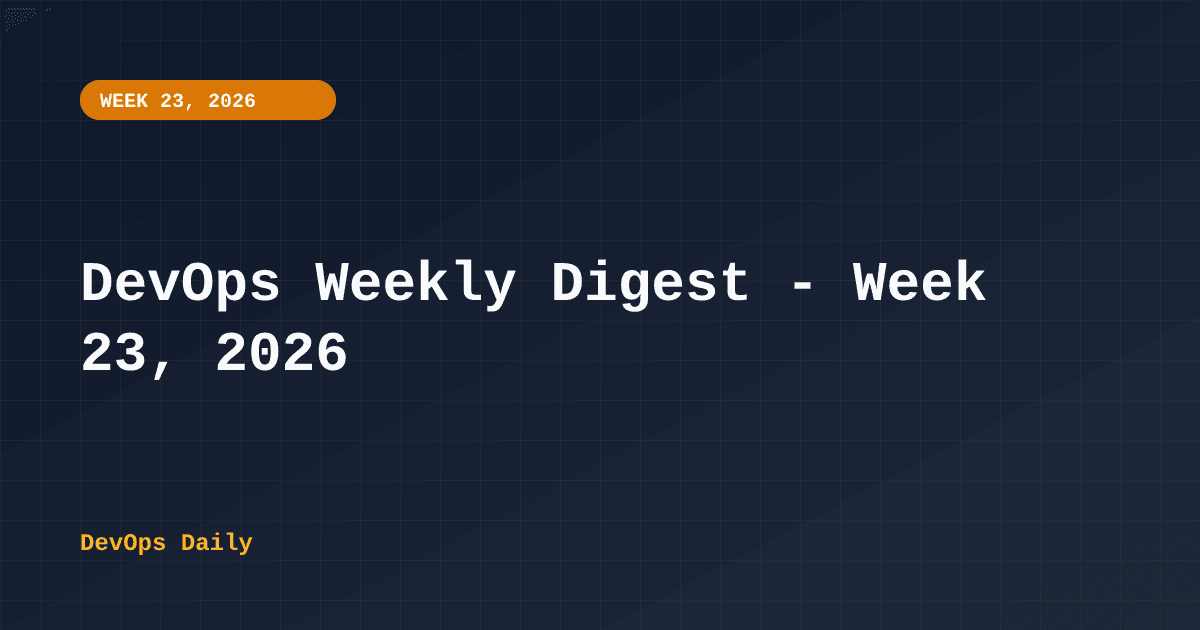
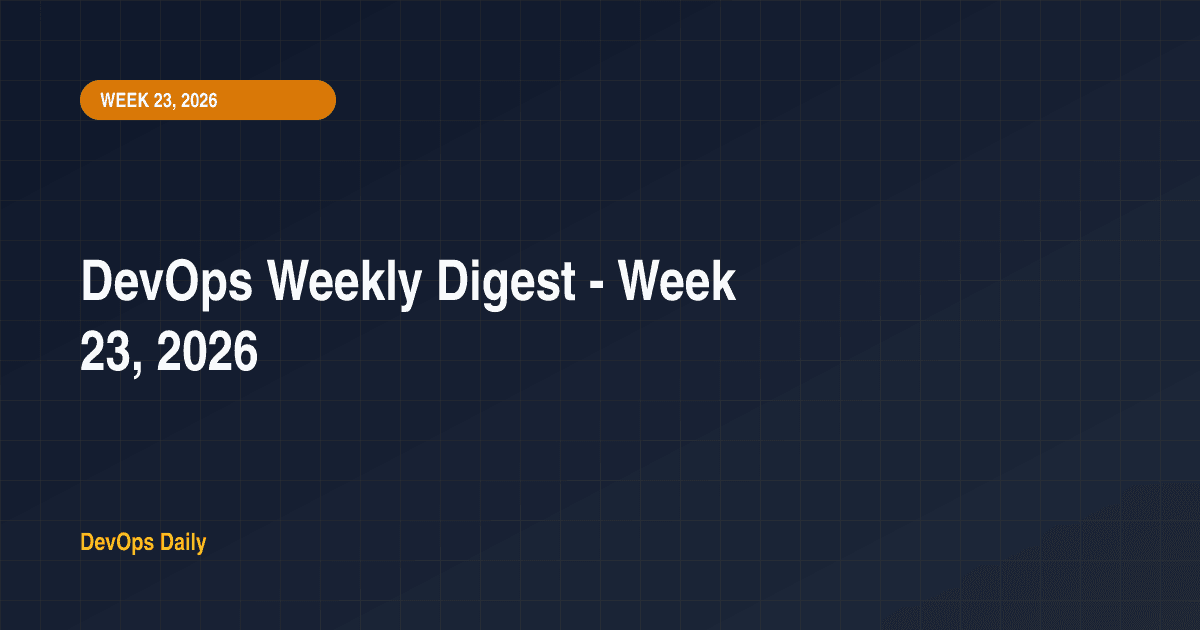
feat: add blog post - Designing Rate Limiting for APIs: Algorithms, Patterns, and Implementation (#1348)

Pull request: feat: add blog post - Designing Rate Limiting for APIs: Algorithms, Patterns, and Implementation
Blog Post on **Designing Rate Limiting for APIs: Algorithms, Patterns, and Implementation**.
Category: API Design
Tags: api-design, rate-limiting, backend

diff --git a/content/posts/designing-rate-limiting-for-apis.md b/content/posts/designing-rate-limiting-for-apis.md
@@ -1,0 +1,353 @@
+---
+title: 'Designing Rate Limiting for APIs: Algorithms, Patterns, and Implementation'
+excerpt: 'A practical comparison of token bucket, leaky bucket, fixed window, and sliding window rate limiting, with copy-paste Redis and FastAPI code, nginx config, and guidance on which one to actually use.'
+category:
+  name: 'DevOps'
+  slug: 'devops'
+date: '2026-06-08'
+publishedAt: '2026-06-08T09:00:00Z'
+updatedAt: '2026-06-08T09:00:00Z'
+readingTime: '12 min read'
+author:
+  name: 'DevOps Daily Team'
+  slug: 'devops-daily-team'
+featured: false
+tags:
+  - api-design
+  - rate-limiting
+  - backend
+  - redis
+  - nginx
+  - devops
+---
+
+At 2am a single customer's cron job got stuck in a retry loop with no backoff. One API key started sending around 8,000 requests per second. Within ninety seconds the database connection pool was saturated, every other customer was getting timeouts, and the on-call engineer was staring at a dashboard that was all red. There was no rate limiting on that endpoint. One misbehaving client took down the API for everyone.
+
+If you run any public or shared API, this is not a hypothetical. The fix is rate limiting, and the hard part is not the idea, it is picking the right algorithm and implementing it so it actually holds up behind a load balancer.
+
+This post compares the four rate limiting algorithms you will actually see in production (fixed window, sliding window, token bucket, leaky bucket), shows you working code you can copy, and gives you a straight answer on which one to use.
+
+## TLDR
+
+- **Token bucket** is the right default for most public APIs. It allows controlled bursts and is cheap to run in Redis.
+- **Sliding window counter** is the best choice when you want accurate limits without the boundary-burst problem of fixed windows.
+- **Fixed window** is the simplest and cheapest, but it lets a client send up to 2x your limit across a window boundary. Fine for rough internal limits, bad for billing or abuse control.
+- **Leaky bucket** smooths bursty input into a constant output rate. Use it when a downstream system can only handle a fixed throughput, not when you want to allow bursts.
+- Do the counting in a shared store (Redis) with an atomic operation. In-memory counters break the moment you run more than one instance.
+- Return `429 Too Many Requests` with a `Retry-After` header. Decide up front whether you fail open or fail closed when Redis is down.
+
+## Prerequisites
+
+- A running API service (the examples use Python and FastAPI, but the logic ports to any language)
+- Redis 6 or newer reachable from your service, for distributed counting
+- Basic familiarity with HTTP status codes and headers
+- `redis-py` installed (`pip install redis`) if you want to run the Python examples
+
+## Why in-memory counters fail first
+
+Before the algorithms, the trap everyone hits. The naive version looks like this:
+
+```python
+# DO NOT use this in production
+from collections import defaultdict
+import time
+
+counters = defaultdict(list)
+
+def allow(client_id, limit=100, window=60):
+    now = time.time()
+    counters[client_id] = [t for t in counters[client_id] if t > now - window]
+    if len(counters[client_id]) >= limit:
+        return False
+    counters[client_id].append(now)
+    return True
+```
+
+This works on your laptop and fails in production for one reason: the counter lives in the memory of a single process. Run three replicas behind a load balancer and each one tracks its own count, so your "100 requests per minute" limit becomes 300. Restart a pod and the counter resets. Autoscale to ten pods and the limit is meaningless.
+
+Rate limiting state has to live somewhere shared and the check has to be atomic. That is why every serious example below uses Redis.
+
+## The four algorithms
+
+### Fixed window counter
+
+Count requests in a fixed time block (say, per calendar minute). When the clock ticks over to the next minute, the count resets to zero.
+
+```python
+def fixed_window(redis, key, limit, window):
+    count = redis.incr(key)
+    if count == 1:
+        # first request in this window, set the expiry
+        redis.expire(key, window)
+    return count <= limit
+```
+
+It is fast, uses almost no memory (one integer per client), and is trivial to reason about. The problem is the boundary. A client can send `limit` requests in the last second of one window and another `limit` in the first second of the next:
+
+```text
+window 1 (00:00-00:59)                window 2 (01:00-01:59)
+                          |<- 1 second ->|
+            100 reqs at 00:59.5    100 reqs at 01:00.2
+            = 200 requests in ~0.7 seconds
+```
+
+For a limit that maps to real cost (database load, a paid quota), that 2x burst is a real bug. Use fixed window only for rough limits where the occasional double burst does not hurt you.
+
+### Sliding window log
+
+Keep a timestamp for every request and count how many fall inside the trailing window. This is exact, no boundary problem, but you store one entry per request. A client at 1,000 requests per minute means 1,000 timestamps in memory per client. That cost adds up fast across many clients, so reserve the sliding log for low-volume endpoints where precision matters (think a "5 password resets per hour" rule).
+
+### Sliding window counter
+
+The practical middle ground. Keep a counter per fixed window, then estimate the rolling count by weighting the previous window by how much of it still overlaps the trailing period.
+
+```python
+import time
+
+def sliding_window(redis, key, limit, window):
+    now = time.time()
+    current = int(now // window)
+    previous = current - 1
+    # how far we are into the current window, as a fraction
+    elapsed = (now % window) / window
+
+    cur_count = int(redis.get(f"{key}:{current}") or 0)
+    prev_count = int(redis.get(f"{key}:{previous}") or 0)
+
+    # weighted estimate of requests in the trailing window
+    estimated = prev_count * (1 - elapsed) + cur_count
+    if estimated >= limit:
+        return False
+
+    pipe = redis.pipeline()
+    pipe.incr(f"{key}:{current}")
+    pipe.expire(f"{key}:{current}", window * 2)
+    pipe.execute()
+    return True
+```
+
+This gives you accuracy very close to a true sliding window at the cost of two integers per client. It smooths out the boundary burst because the previous window's count still pulls weight right after the rollover. This is a solid default if token bucket does not fit your mental model.
+
+### Token bucket
+
+Picture a bucket that holds tokens. Every request takes one token. Tokens refill at a steady rate up to a maximum capacity. If the bucket is empty, the request is rejected.
+
+```text
+        refill at 10 tokens/sec
+                 |
+                 v
+        +------------------+
+        |  tokens: 73/100  |   capacity = 100 (max burst)
+        +------------------+
+                 |
+          1 token per request
+                 v
+            request allowed
+```
+
+The capacity controls how big a burst you allow; the refill rate controls the sustained throughput. A client that has been quiet can spend its full bucket at once (a burst), then is held to the refill rate. This matches how people actually use APIs, which is why most public APIs (Stripe, GitHub, AWS) use token bucket or a close variant.
+
+The catch is that refill and spend have to be atomic, or two concurrent requests can both read the same token count and both spend it. Do it in a single Redis Lua script so the whole read-refill-spend cycle runs without interruption:
+
+```lua
+-- token_bucket.lua
+-- KEYS[1] = bucket key
+-- ARGV[1] = capacity
+-- ARGV[2] = refill rate (tokens per second)
+-- ARGV[3] = current time (seconds, with fraction)
+-- ARGV[4] = tokens requested (cost)
+local capacity = tonumber(ARGV[1])
+local refill_rate = tonumber(ARGV[2])
+local now = tonumber(ARGV[3])
+local requested = tonumber(ARGV[4])
+
+local bucket = redis.call('HMGET', KEYS[1], 'tokens', 'last')
+local tokens = tonumber(bucket[1])
+local last = tonumber(bucket[2])
+
+if tokens == nil then
+  tokens = capacity
+  last = now
+end
+
+-- refill based on time elapsed since the last request
+local elapsed = math.max(0, now - last)
+tokens = math.min(capacity, tokens + elapsed * refill_rate)
+
+local allowed = 0
+if tokens >= requested then
+  tokens = tokens - requested
+  allowed = 1
+end
+
+redis.call('HMSET', KEYS[1], 'tokens', tokens, 'last', now)
+-- expire idle buckets so Redis does not fill up with stale keys
+redis.call('EXPIRE', KEYS[1], math.ceil(capacity / refill_rate) * 2)
+
+return { allowed, tokens }
+```
+
+Load it once and call it per request:
+
+```python
+import time
+import redis
+
+r = redis.Redis(host="localhost", port=6379, decode_responses=True)
+
+with open("token_bucket.lua") as f:
+    take_token = r.register_script(f.read())
+
+def allow(key, capacity=100, refill_rate=10, cost=1):
+    allowed, remaining = take_token(
+        keys=[key],
+        args=[capacity, refill_rate, time.time(), cost],
+    )
+    return bool(allowed), int(remaining)
+```
+
+### Leaky bucket
+
+A leaky bucket is a queue that drains at a constant rate. Requests pour in (possibly in bursts), sit in the queue, and leave at a fixed pace. If the queue is full, new requests are dropped.
+
+```text
+   bursty requests in
+        | | |  |
+        v v v  v
+     +-----------+
+     |  queue    |   drops when full
+     +-----------+
+           |
+      constant drain (e.g. 10 req/sec)
+           v
+      to downstream
+```
+
+The difference from token bucket matters. Token bucket allows a burst to pass through immediately as long as it has tokens. Leaky bucket never lets the output exceed the drain rate, no matter what. Use leaky bucket when the thing behind your API can only handle a steady throughput, for example a legacy system or a third-party API with a hard ceiling. If you want to allow bursts, use token bucket instead.
+
+## Which one should you use?
+
+| Algorithm | Allows bursts | Memory per client | Accuracy | Use when |
+| --- | --- | --- | --- | --- |
+| Fixed window | At the boundary (bad) | 1 integer | Low | Rough internal limits |
+| Sliding window log | No | 1 entry per request | Exact | Low-volume, precise rules |
+| Sliding window counter | Smoothed | 2 integers | High | General-purpose default |
+| Token bucket | Yes, up to capacity | small hash | High | Public APIs, most cases |
+| Leaky bucket | No | queue | High | Protecting a fixed-rate downstream |
+
+If you are not sure, use **token bucket**. It handles real traffic well, the burst behavior is intuitive, and the Redis implementation above is production-ready. Reach for the sliding window counter if "X requests per minute" is easier to explain to your customers than a bucket.
+
+## Wiring it into your API
+
+Here is the token bucket as FastAPI middleware. It keys off the client IP, but in production you should key off the API key or authenticated user ID so a shared NAT does not punish everyone behind it.
+
+```python
+from fastapi import FastAPI, Request
+from fastapi.responses import JSONResponse
+
+app = FastAPI()
+
[email redacted]("http")
+async def rate_limit(request: Request, call_next):
+    client_key = request.headers.get("x-api-key") or request.client.host
+    key = f"rl:{client_key}"
+
+    try:
+        allowed, remaining = allow(key, capacity=100, refill_rate=10)
+    except redis.RedisError:
+        # fail open: if Redis is down, let traffic through rather than
+        # taking the whole API offline. See the note below.
+        return await call_next(request)
+
+    if not allowed:
+        return JSONResponse(
+            status_code=429,
+            content={"error": "rate limit exceeded", "retry_after": 1},
+            headers={
+                "Retry-After": "1",
+                "X-RateLimit-Limit": "100",
+                "X-RateLimit-Remaining": "0",
+            },
+        )
+
+    response = await call_next(request)
+    response.headers["X-RateLimit-Limit"] = "100"
+    response.headers["X-RateLimit-Remaining"] = str(remaining)
+    return response
+```
+
+Send back the standard headers. Clients use `X-RateLimit-Remaining` to slow themselves down before they hit the wall, and `Retry-After` tells a well-behaved client exactly how long to wait. Skipping these turns every client into a blind retry machine, which is the opposite of what you want.
+
+### Fail open or fail closed?
+
+When Redis is unreachable, you have two choices and you must pick deliberately:
+
+- **Fail open** (allow the request): the right default for general traffic. A Redis blip should not take your whole API down. The example above does this.
+- **Fail closed** (reject the request): the right call for login, password reset, and payment endpoints, where letting traffic through unmetered is worse than a brief outage.
+
+Do not leave this to chance. An unhandled Redis exception that bubbles up as a 500 is the worst of both worlds.
+
+## Do it at the edge when you can
+
+If all you need is a flat limit per IP, do not write code at all. Put it in nginx in front of your service:
+
+```nginx
+# define a shared memory zone keyed by client IP, 10 req/sec
+limit_req_zone $binary_remote_addr zone=api:10m rate=10r/s;
+
+server {
+    location /api/ {
+        # allow short bursts of 20, no artificial delay on them
+        limit_req zone=api burst=20 nodelay;
+        limit_req_status 429;
+        proxy_pass http://backend;
+    }
+}
+```
+
+nginx's `limit_req` is a leaky bucket under the hood. This stops abusive traffic before it ever reaches your application, which is exactly where you want to drop it. Use the application-level Redis approach when you need per-user limits, different tiers, or limits that depend on the request body. Use both together for defense in depth.
+
+## Seeing it work
+
+Fire a quick loop at the endpoint and watch the limit kick in:
+
+```text
+$ for i in $(seq 1 12); do \
+    curl -s -o /dev/null -w "%{http_code} " http://localhost:8000/api/data; \
+  done
[phone redacted] 200 200 200 200 200 429 429
+```
+
+The full response on a rejected request:
+
+```text
+$ curl -i http://localhost:8000/api/data
+HTTP/1.1 429 Too Many Requests
+content-type: application/json
+retry-after: 1
+x-ratelimit-limit: 100
+x-ratelimit-remaining: 0
+
+{"error":"rate limit exceeded","retry_after":1}
+```
+
+And the bucket state itself, straight from Redis:
+
+```text
+$ redis-cli HGETALL rl:203.0.113.45
+1) "tokens"
+2) "0"
+3) "last"
+4) "1717840800.123"
+```
+
+Tokens at zero, last access timestamped. Wait a second and the Lua script refills 10 tokens on the next request.
+
+## Next steps
+
+- Add the token bucket Lua script and FastAPI middleware to one endpoint, key it off the API key, and load test it with `hey -z 30s -c 50 http://localhost:8000/api/data` to confirm the 429s show up where you expect.
+- Set your `capacity` and `refill_rate` from real traffic, not guesses. Pull your p99 requests-per-second per client from logs and set the sustained rate a bit above that, with capacity for a 5 to 10 second burst.
+- Pick fail-open or fail-closed per endpoint group and write it into the code, not a wiki page.
+- Add `X-RateLimit-*` headers to every response and document them so client teams can back off gracefully.
+- Put a flat per-IP `limit_req` in nginx as a cheap outer wall, even if you already limit per user in the app.
+- Alert on your 429 rate. A sudden spike means either an abusive client or a limit set too low for legitimate traffic, and you want to know which before the support tickets arrive.